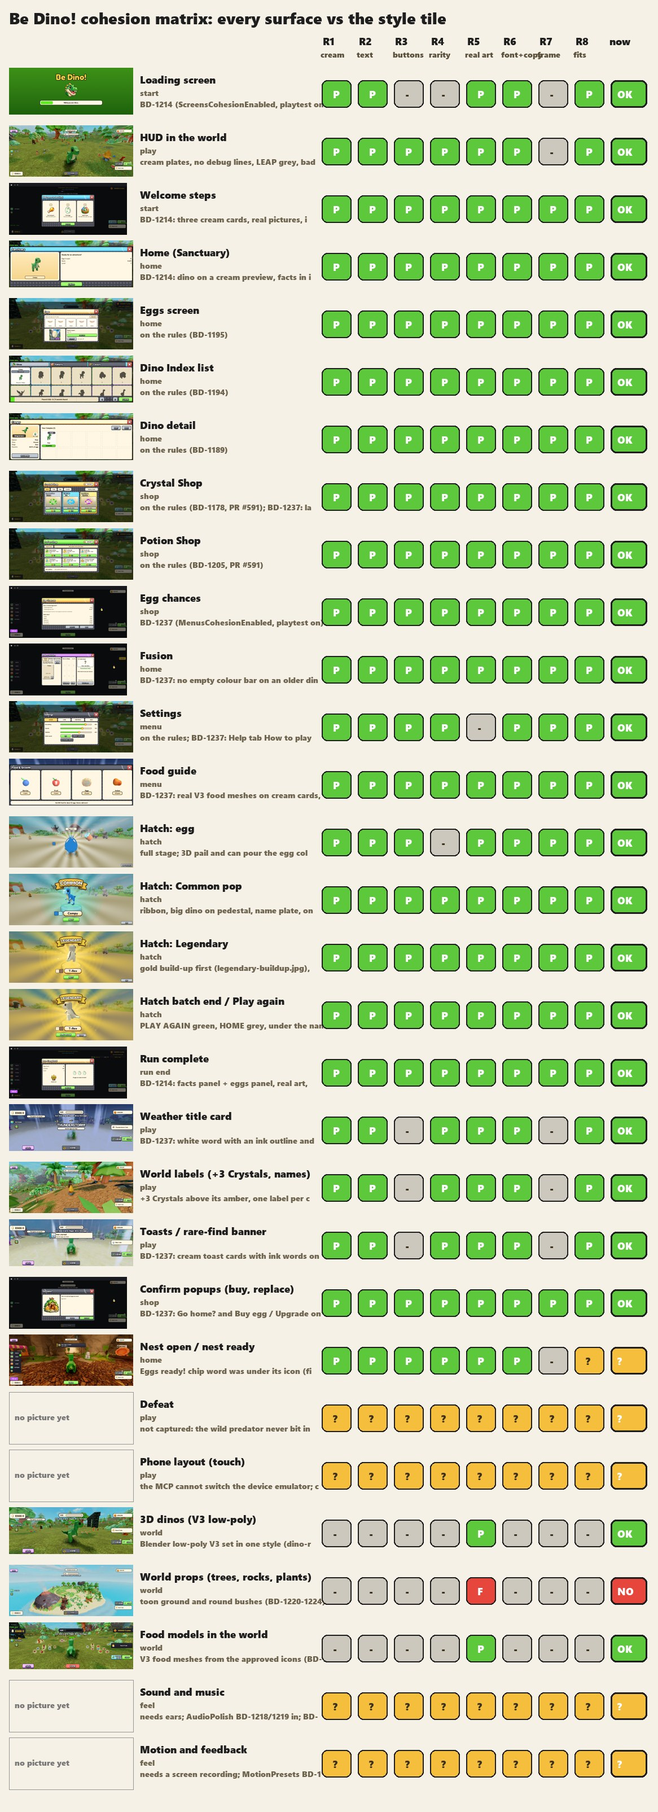
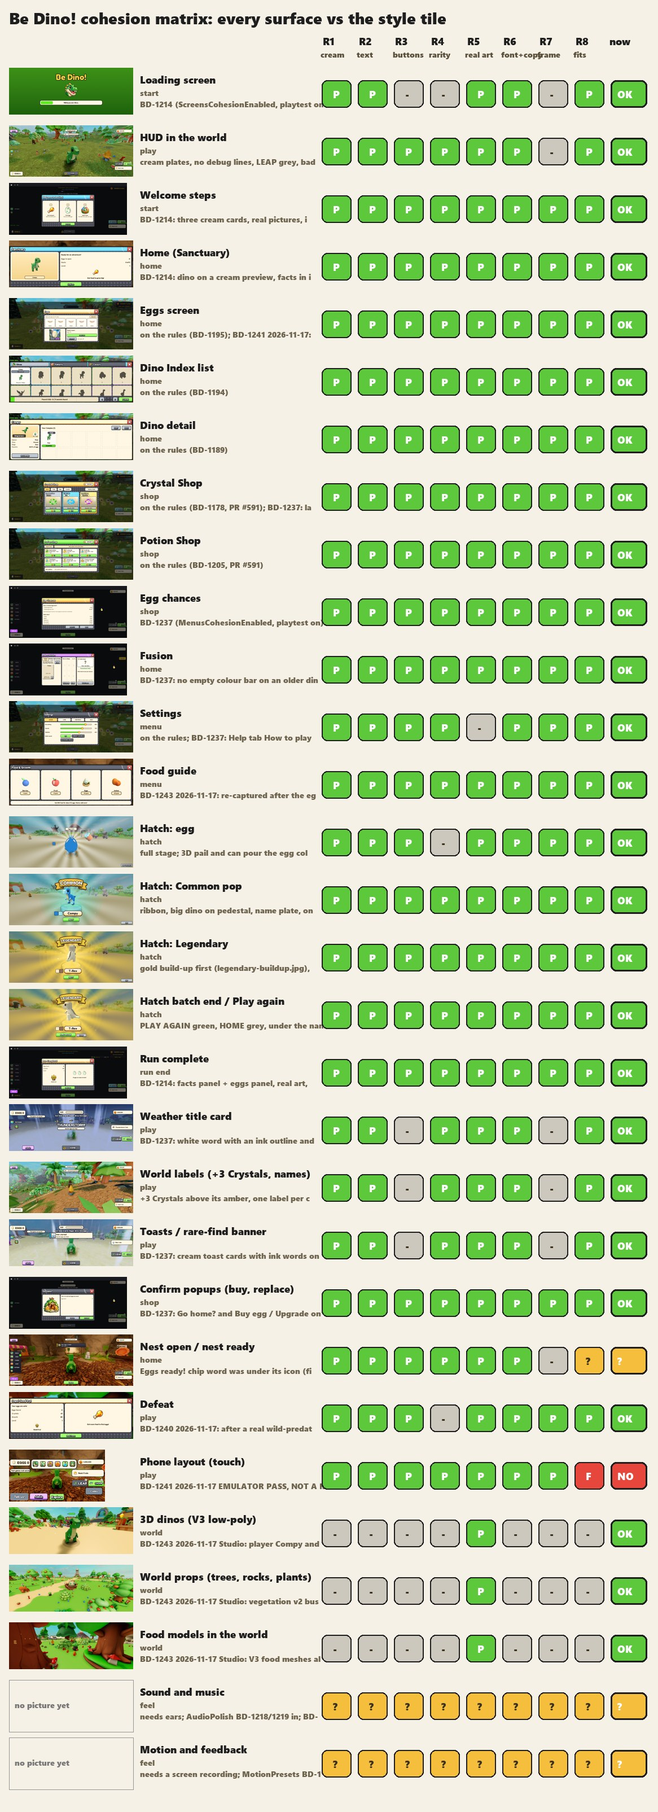
BD-1240 + BD-1243 + BD-1241 final style checks, board tidy (BD-1216, BD-1208)
- BD-1240: defeat screen captured after a real wild-predator knock-out in Studio, R1-R8 pass after an R8 fix.
- BD-1243: Food guide (egg turn), V3 dinos, world props, food models re-captured and judged (pass).
- BD-1241: emulator pass (resized Studio viewport 828x374 / 634x344, desktop input; not a real phone).
  Fixes behind MenusCohesionEnabled / HudCohesionEnabled: ModalCompact.usableWidth keeps compact screens
  clear of the frame (Run complete/defeat, Home, menus, Settings, Index, Eggs); Codes button keeps clear of
  the HUD pieces (CodesButtonSpot + verify_codes_button_spot); home rail and walk-up bubble cream.
  New rows BD-1249, BD-1250, BD-1251 for what is left.
- Board: BD-1216 and BD-1208 to Review / test; BD-1240 Review / test; BD-1241, BD-1243 In progress.
- Matrix: 26 pass, 1 fail (phone R8), 3 not checked. Pictures in docs/evidence/2026-11-17-final-checks.

diff --git a/tools/verify_codes_button_spot.py b/tools/verify_codes_button_spot.py
@@ -1,0 +1,78 @@
+"""BD-1241 (docs/240 R8, emulator pass 2026-11-17): the HUD "Codes" button keeps clear of the HUD pieces.
+
+Runs the REAL src/shared/CodesButtonSpot.luau with the pinned Luau runner:
+  * the measured Studio case (1274 x 481): the old fixed spot (right edge, y 162) sat on the timers column (weather chip); the rule moves
+    it left of the column, clear of every published piece, inside the canvas;
+  * a tall desktop canvas (1914 x 841) keeps the old spot (nothing there);
+  * phone canvases (iPhone 844 x 390, small Android 640 x 360) with a timers column under the crystals plate get a clear spot;
+  * when no spot is clear the old spot is returned and reported as not clear (never off screen).
+And a source scan: GiftsPanel uses the rule only inside the Config.MenusCohesionEnabled block (flag off = the old fixed spot).
+
+    python tools/verify_codes_button_spot.py --runner <luau.exe>
+"""
+from pathlib import Path
+import argparse
+import subprocess
+import tempfile
+
+ROOT = Path(__file__).resolve().parents[1]
+
+BODY = r'''
+local function overlaps(a, b) return a.x < b.x + b.w and b.x < a.x + a.w and a.y < b.y + b.h and b.y < a.y + a.h end
+local function check(name, width, height, blockers, expectClear)
+    local default = {x = width - 128, y = 162, w = 110, h = 44}
+    local r, ok = Spot.place(default, blockers, width, height)
+    assert(ok == expectClear, name .. ": clear=" .. tostring(ok))
+    if ok then
+        for _, b in blockers do assert(not overlaps(r, b), name .. ": still overlaps a HUD piece") end
+        assert(r.x >= 0 and r.y >= 0 and r.x + r.w <= width and r.y + r.h <= height, name .. ": off the canvas")
+        assert(r.w >= 44 and r.h >= 44, name .. ": tap target under 44 px")
+    end
+    return r
+end
+-- Rects measured in the playtest build at 1274 x 481 (BeDinoUI attributes, 2026-11-17)
+local studio = {
+    {x = 1049.97, y = 157.82, w = 216.03, h = 166.18}, -- TimersRect (LEAP, weather chip, potions)
+    {x = 1069.61, y = 8, w = 196.39, h = 62.92},       -- WalletBlockRect
+    {x = 8, y = 8, w = 158.63, h = 48.34},             -- HudRect
+    {x = 8, y = 102.34, w = 201, h = 144},             -- RailRect
+    {x = 517, y = 279, w = 240, h = 48},               -- ChipRect
+    {x = 544.85, y = 369.68, w = 184.31, h = 45.32},   -- ActionRect
+    {x = 8, y = 367, w = 120, h = 48},                 -- FeedbackRect
+    {x = 136, y = 367, w = 120, h = 48},               -- AdminRect
+}
+local moved = check("studio 1274x481", 1274, 423, studio, true)
+assert(moved.y == 162 and moved.x < 1049.97, "studio: expected the spot left of the timers column")
+local desk = check("desktop 1914x841", 1914, 783, {{x = 1600, y = 600, w = 290, h = 160}, {x = 1636, y = 8, w = 260, h = 62}}, true)
+assert(desk.x == 1914 - 128 and desk.y == 162, "desktop: the old spot must stay")
+check("iPhone 844x390", 844, 390, {{x = 680, y = 120, w = 150, h = 200}, {x = 650, y = 8, w = 186, h = 56}, {x = 8, y = 8, w = 150, h = 46}}, true)
+check("Android 640x360", 640, 360, {{x = 500, y = 110, w = 132, h = 190}, {x = 470, y = 8, w = 162, h = 52}, {x = 8, y = 8, w = 140, h = 44}}, true)
+local full = check("no room", 300, 220, {{x = 0, y = 0, w = 300, h = 220}}, false)
+assert(full.x == 300 - 128 and full.y == 162, "no room: the old spot is returned")
+assert(Spot.fromAttribute({}) == nil and Spot.fromAttribute(nil) == nil)
+print("CodesButtonSpot passed")
+'''
+
+
+def scan():
+    src = (ROOT / "src/client/GiftsPanel.client.luau").read_text(encoding="utf-8")
+    assert src.count("CodesButtonSpot") == 1, "GiftsPanel must require CodesButtonSpot exactly once"
+    block = src[src.index("Config.MenusCohesionEnabled == true then\n        local Spot"):]
+    assert block.index("CodesButtonSpot") < block.index("\n    end\nend)"), "the rule must sit inside the MenusCohesionEnabled block"
+    assert 'UDim2.new(1, -128, 0, 162)' in src, "flag off keeps the old fixed spot"
+
+
+if __name__ == "__main__":
+    parser = argparse.ArgumentParser()
+    parser.add_argument("--runner", required=True)
+    args = parser.parse_args()
+    scan()
+    module = (ROOT / "src/shared/CodesButtonSpot.luau").read_text(encoding="utf-8")
+    script = "local Spot = (function()\n" + module + "\nend)()\n" + BODY
+    with tempfile.TemporaryDirectory() as d:
+        path = Path(d) / "codes_button_spot.luau"
+        path.write_text(script, encoding="utf-8")
+        result = subprocess.run([args.runner, str(path)], capture_output=True, text=True)
+        print(result.stdout, end="")
+        print(result.stderr, end="")
+        raise SystemExit(result.returncode)

diff --git a/tools/verify_toybox_ui.py b/tools/verify_toybox_ui.py
@@ -52,7 +52,7 @@ ART = 'resources/ui/v2/toybox/final'
 # BD-1178 (docs/231): the Crystal Shop in the Toybox look reads the kit through its own verifier, tools/verify_toybox_shop.py
 POLISH_FILES = tuple('src/client/' + n + '.luau' for n in ('PotionToyboxPage', 'SettingsMenu', 'HudToybox', 'HudTimers', 'VolumeSliders', 'SmallScreens')) + ('src/shared/TimerWords.luau', 'src/client/HudCohesion.client.luau', 'src/client/PointAtCue.client.luau')  # BD-1226: the point-at chips read the kit cream / ink (own flag); BD-1205 (docs/236): Potion Shop, Settings, HUD buttons; BD-1213: the HUD cohesion script reads the ToyboxKit numbers (its own flag)
 SCREENS_COHESION = ('src/client/ScreensCohesion.luau', 'src/shared/ScreensCohesionLayout.luau', 'src/loading/Loading.client.luau')  # BD-1214 (docs/240 step 3): Run complete, Home, Welcome, Loading on the kit numbers
-MENUS_COHESION = ('src/client/MenusCohesion.luau', 'src/shared/MenusCohesionRules.luau', 'src/client/ShopTiles.luau')  # BD-1237 (docs/240 step 4): Egg chances, Food guide, weather card, toasts on the kit numbers
+MENUS_COHESION = ('src/client/MenusCohesion.luau', 'src/shared/MenusCohesionRules.luau', 'src/client/ShopTiles.luau', 'src/client/HubPromptBubble.luau')  # BD-1237 (docs/240 step 4): Egg chances, Food guide, weather card, toasts on the kit numbers; BD-1241: the walk-up bubble reads the kit cream / ink (MenusCohesionEnabled only)
 CRYSTAL_SHOP = ('src/shared/ToyboxShop.luau', 'src/client/ShopToyboxCard.luau', 'src/client/ShopToyboxPage.luau', 'src/client/ShopCards.luau', 'src/client/ShopScreens.luau')
 
 # The hook lines. Removing them gives "today's files"; check 2 compares the flag-off build against that.

diff --git a/docs/evidence/2026-11-15-cohesion/cohesion-matrix.md b/docs/evidence/2026-11-15-cohesion/cohesion-matrix.md
@@ -10,18 +10,18 @@
 | Surface | Group | R1 | R2 | R3 | R4 | R5 | R6 | R7 | R8 | Now | Note |
 | --- | --- | --- | --- | --- | --- | --- | --- | --- | --- | --- | --- |
 | Loading screen | start | P | P | - | - | P | P | - | P | P | BD-1214 (ScreensCohesionEnabled, playtest on): warm green, real dino art, cream bar, one font |
-| HUD in the world | play | P | P | P | P | P | P | - | P | P | cream plates, no debug lines, LEAP grey, badges on the edge (BD-1213, HudCohesionEnabled, playtest); BD-1237: Codes and Tell us! grey (docs/evidence/2026-11-16-menus-style/after-hud-codes-tellus-grey.jpg) |
+| HUD in the world | play | P | P | P | P | P | P | - | P | P | cream plates, no debug lines, LEAP grey, badges on the edge (BD-1213, HudCohesionEnabled, playtest); BD-1237: Codes and Tell us! grey (docs/evidence/2026-11-16-menus-style/after-hud-codes-tellus-grey.jpg); BD-1241 2026-11-17: home rail now a cream plate with ink words, Codes moved clear of the weather chip on short canvases (home-hud-after-1274x481.jpg) |
 | Welcome steps | start | P | P | P | P | P | P | P | P | P | BD-1214: three cream cards, real pictures, ink text, one green button |
-| Home (Sanctuary) | home | P | P | P | P | P | P | P | P | P | BD-1214: dino on a cream preview, facts in ink, Explore green, OPEN EGGS grey |
-| Eggs screen | home | P | P | P | P | P | P | P | P | P | on the rules (BD-1195) |
+| Home (Sanctuary) | home | P | P | P | P | P | P | P | P | P | BD-1214: dino on a cream preview, facts in ink, Explore green, OPEN EGGS grey; 2026-11-17: right panel clear of the frame on a compact canvas |
+| Eggs screen | home | P | P | P | P | P | P | P | P | P | on the rules (BD-1195); BD-1241 2026-11-17: panels clear of the frame on a compact canvas (eggs-screen-after-1274x481.jpg); empty-nest pictures cut at the top there (BD-1251) |
 | Dino Index list | home | P | P | P | P | P | P | P | P | P | on the rules (BD-1194) |
 | Dino detail | home | P | P | P | P | P | P | P | P | P | on the rules (BD-1189) |
 | Crystal Shop | shop | P | P | P | P | P | P | P | P | P | on the rules (BD-1178, PR #591); BD-1237: landing tiles cream with ink words and grey OPEN, the Eggs card ink words and a grey Chances (docs/evidence/2026-11-16-menus-style/after-shop-tiles.jpg, after-shop-egg-card.jpg) |
 | Potion Shop | shop | P | P | P | P | P | P | P | P | P | on the rules (BD-1205, PR #591) |
 | Egg chances | shop | P | P | P | P | P | P | P | P | P | BD-1237 (MenusCohesionEnabled, playtest on): cream panel, kid chances (1 in 4), exact numbers one tap away trimmed (36.4%), grey buttons; Buy egg confirm on cream panels with one green CONFIRM (code path; the egg is Coming soon in this build) |
 | Fusion | home | P | P | P | P | P | P | P | P | P | BD-1237: no empty colour bar on an older dino (the card line already says Older dino) |
-| Settings | menu | P | P | P | P | - | P | P | P | P | on the rules; BD-1237: Help tab How to play grey beside the one green FOOD GUIDE (docs/evidence/2026-11-16-menus-style/after-settings-help.jpg) |
-| Food guide | menu | P | P | P | P | P | P | P | P | P | BD-1237: real V3 food meshes on cream cards, ink names and grow chips; the egg mesh now gets its RotX turn (re-capture BD-1243) |
+| Settings | menu | P | P | P | P | - | P | P | P | P | on the rules; BD-1237: Help tab How to play grey beside the one green FOOD GUIDE (docs/evidence/2026-11-16-menus-style/after-settings-help.jpg); BD-1241 2026-11-17: tabs, sliders and numbers clear of the scroll bar on a compact canvas (settings-sound-after-1274x481.jpg) |
+| Food guide | menu | P | P | P | P | P | P | P | P | P | BD-1243 2026-11-17: re-captured after the egg turn fix: the egg stands upright in its nest; four cream cards with real V3 food meshes, ink names, grow chips, kid tip line |
 | Hatch: egg | hatch | P | P | P | - | P | P | P | P | P | full stage; 3D pail and can pour the egg colours; cream chips |
 | Hatch: Common pop | hatch | P | P | P | P | P | P | P | P | P | ribbon, big dino on pedestal, name plate, one green NEXT |
 | Hatch: Legendary | hatch | P | P | P | P | P | P | P | P | P | gold build-up first (legendary-buildup.jpg), then gold ribbon |
@@ -32,10 +32,10 @@
 | Toasts / rare-find banner | play | P | P | - | P | P | P | - | P | P | BD-1237: cream toast cards with ink words on the 20/14 scale, the kind colour only on the edge bar; the rare-find banner is white outlined words on the world (R2); the hatch purple banner is the hatch session's |
 | Confirm popups (buy, replace) | shop | P | P | P | P | P | P | P | P | P | BD-1237: Go home? and Buy egg / Upgrade on cream panels, one green button, CANCEL grey; Buy / Replace potion and Buy aura were already on cream (BD-1178, BD-1205) |
 | Nest open / nest ready | home | P | P | P | P | P | P | - | ? | ? | Eggs ready! chip word was under its icon (fixed in BD-1237, not re-captured); the toast in that picture is now cream; nests with eggs not captured: BD-1243 |
-| Defeat | play | ? | ? | ? | ? | ? | ? | ? | ? | ? | not captured: the wild predator never bit in Studio; BD-1240 |
-| Phone layout (touch) | play | ? | ? | ? | ? | ? | ? | ? | ? | ? | the MCP cannot switch the device emulator; compact 1274x481 and offline 667x375 checked only; BD-1241 |
-| 3D dinos (V3 low-poly) | world | - | - | - | - | P | - | - | - | P | Blender low-poly V3 set in one style (dino-rig session); Parasaurolophus odd BD-1188; fresh Studio check BD-1243 |
-| World props (trees, rocks, plants) | world | - | - | - | - | F | - | - | - | F | toon ground and round bushes (BD-1220-1224) fit; rocks and plants still the placeholder kit: BD-206, vegetation v2 queued BD-1239 (PR #615) |
-| Food models in the world | world | - | - | - | - | P | - | - | - | P | V3 food meshes from the approved icons (BD-1208), the same meshes the Food guide shows now; hosts BD-1238 (PR #614) |
+| Defeat | play | P | P | P | - | P | P | P | P | P | BD-1240 2026-11-17: after a real wild-predator knock-out in Studio (two NPC bites, test-only HP in a throwaway build). Oops! Good try!, Your eggs are safe!, one green Back home; R8 fixed: the right panel ran 4 px into the frame on a compact canvas (before: defeat-before-1274x481.jpg) |
+| Phone layout (touch) | play | P | P | P | P | P | P | P | F | F | BD-1241 2026-11-17 EMULATOR PASS, NOT A REAL PHONE: Studio viewport resized to 828x374 and 634x344, desktop input. Fixed: panels clear of the frame, Codes clear of the weather chip, home rail and walk-up bubble cream. R8 still fails: toasts over the weather chip / under the bubble and over OPEN EGGS (BD-1249), taps under 44 px (BD-1250), nest pictures cut (BD-1251). Real phone: owner (BD-1222) |
+| 3D dinos (V3 low-poly) | world | - | - | - | - | P | - | - | - | P | BD-1243 2026-11-17 Studio: player Compy and the baby herd (dino-v3-baby-stegosaurus.jpg) are the V3 low-poly set with eyes and the BD-1217 clips; hatch shows the V3 Raptor (hatch-common-1274x481.jpg). Small: at a close side angle the far eye reads as a flat black patch. Parasaurolophus still needs an owner Model id (BD-1216) |
+| World props (trees, rocks, plants) | world | - | - | - | - | P | - | - | - | P | BD-1243 2026-11-17 Studio: vegetation v2 bushes and trees, mossy boulders and mushrooms, one set piece per spoke (nest, campfire, signpost, fossil dig, log bridge), plaza shops v2 with dino shopkeepers (world-plaza-shops-v2.jpg, world-rocks-mushrooms-food-closeup.jpg); the placeholder kit is gone |
+| Food models in the world | world | - | - | - | - | P | - | - | - | P | BD-1243 2026-11-17 Studio: V3 food meshes along the paths (berries, apples, amber, eggs in nests), the same meshes the Food guide shows (world-nest-set-piece-food-vegetation.jpg) |
 | Sound and music | feel | ? | ? | ? | ? | ? | ? | ? | ? | ? | needs ears; AudioPolish BD-1218/1219 in; BD-1242 |
 | Motion and feedback | feel | ? | ? | ? | ? | ? | ? | ? | ? | ? | needs a screen recording; MotionPresets BD-1182; BD-1242 |

diff --git a/docs/kanban/rows/BD-1241.md b/docs/kanban/rows/BD-1241.md
@@ -1,1 +1,1 @@
-| BD-1241 | Backlog | P2 | **Cohesion check: phone layout with Studio's device emulator or a real phone (owner)** docs/240 step 5, matrix row Phone layout. The Studio MCP cannot switch Studio's device emulator (no tool for it), so no phone-size touch picture exists. Checked instead: the compact window 1274x481 (Food guide, weather card, toasts) and the offline layout sweep at 667x375 in tools/verify_menus_cohesion.py / verify_screens_cohesion.py. Done when: pictures at an iPhone-size emulator preset (or a real phone) of HUD, Home, Eggs, Egg chances, Food guide, Go home?, Run complete, judged R1-R8. | BD-1237 |
+| BD-1241 | In progress | P2 | **Cohesion check: phone layout with Studio's device emulator or a real phone (owner)** docs/240 step 5, matrix row Phone layout. The Studio MCP cannot switch Studio's device emulator (no tool for it), so no phone-size touch picture exists. Checked instead: the compact window 1274x481 (Food guide, weather card, toasts) and the offline layout sweep at 667x375 in tools/verify_menus_cohesion.py / verify_screens_cohesion.py. Done when: pictures at an iPhone-size emulator preset (or a real phone) of HUD, Home, Eggs, Egg chances, Food guide, Go home?, Run complete, judged R1-R8. 2026-11-17 EMULATOR PASS, NOT A REAL PHONE: Studio's device emulator has no script hook, so my test window was resized to phone-sized viewports (828x374 iPhone-like, 634x344 small Android) with desktop input (no touch controls drawn). Checked HUD run/home, Sanctuary, Run complete, Potion Shop, Index, walk-up bubble; hatch at 1274x481. Fixed behind the cohesion flags: panels clear of the frame (Run complete/defeat, Home, menus, Settings, Index, Eggs), Codes button clear of the weather chip, home rail and walk-up bubble cream. Open: BD-1249, BD-1250, BD-1251. Real-phone check stays with the owner (BD-1222). | BD-1237 |

diff --git a/docs/kanban/rows/BD-1240.md b/docs/kanban/rows/BD-1240.md
@@ -1,1 +1,1 @@
-| BD-1240 | Backlog | P2 | **Cohesion check: defeat screen picture (a real predator knock-out in Studio)** docs/240 step 5, cohesion matrix row Defeat. 2026-11-16: not captured: in the playtest place WildPredator1 never bit a size-1 Compy held beside it for 25 s, and the defeat path (CombatService onDefeat -> RunLifecycle.tryEnd Defeated) cannot be called from a Studio MCP context (separate module instances). Code path is on the rules already (BD-1214 moves 'Your eggs are safe!' into the cream facts panel). Done when: a Studio picture of Run complete after a real defeat, judged on R1-R8, row in docs/polish/cohesion.json updated. | BD-1237 |
+| BD-1240 | Review / test | P2 | **Cohesion check: defeat screen picture (a real predator knock-out in Studio)** docs/240 step 5, cohesion matrix row Defeat. 2026-11-16: not captured: in the playtest place WildPredator1 never bit a size-1 Compy held beside it for 25 s, and the defeat path (CombatService onDefeat -> RunLifecycle.tryEnd Defeated) cannot be called from a Studio MCP context (separate module instances). Code path is on the rules already (BD-1214 moves 'Your eggs are safe!' into the cream facts panel). Done when: a Studio picture of Run complete after a real defeat, judged on R1-R8, row in docs/polish/cohesion.json updated. 2026-11-17: captured after a real wild-predator knock-out in my own playtest build (two NPC bites, CombatService onDefeat -> RunLifecycle Defeated; test-only in that throwaway build: BaseHp 10 and GrowthScore 80 so the size-ratio rule lets the predator bite and two bites end it; nothing of that is committed). R1-R8 pass after an R8 fix (right panel ran 4 px into the frame on a compact canvas: ModalCompact.usableWidth, cohesion flags only). docs/evidence/2026-11-17-final-checks/defeat-after-1274x481.jpg | BD-1237 |

diff --git a/docs/kanban/rows/BD-1208.md b/docs/kanban/rows/BD-1208.md
@@ -1,1 +1,1 @@
-| BD-1208 | In progress | P0 | **World redesign (owner 2026-11-15: 'the map looks bad, the food looks bad'): round island, spawn plaza + spoke paths + ring road, readable zones with one landmark each, clumped planting, food as the approved icons come to life (berries on bushes, fruit on trees, eggs in nests, amber in rocks), no halo discs; docs/241, built on the WorldLayer grid (BD-1047); proposal pictures first** 2026-11-15 step 3 food: 8 V3 food pickups generated with Roblox generate_mesh from the approved food icons (owner picked this route after the Blender-script food read 'too low poly' and the amber/nests 'missing character'); wired behind Config.FoodV3Enabled (on in playtest). Studio check in progress; NOT verified on phone; map/zones/planting not started. | None |
+| BD-1208 | Review / test | P0 | **World redesign (owner 2026-11-15: 'the map looks bad, the food looks bad'): round island, spawn plaza + spoke paths + ring road, readable zones with one landmark each, clumped planting, food as the approved icons come to life (berries on bushes, fruit on trees, eggs in nests, amber in rocks), no halo discs; docs/241, built on the WorldLayer grid (BD-1047); proposal pictures first** 2026-11-15 step 3 food: 8 V3 food pickups generated with Roblox generate_mesh from the approved food icons (owner picked this route after the Blender-script food read 'too low poly' and the amber/nests 'missing character'); wired behind Config.FoodV3Enabled (on in playtest). Studio check in progress; NOT verified on phone; map/zones/planting not started. 2026-11-17: every part merged (#599, #606, #607, #608, #614, #619, #620, #623, #625, #626), all on in the playtest profile; left for the owner: play the island on a phone and judge it. | None |

diff --git a/docs/kanban/rows/BD-1243.md b/docs/kanban/rows/BD-1243.md
@@ -1,1 +1,1 @@
-| BD-1243 | Backlog | P2 | **Cohesion check: 3D pictures (Food guide after the egg turn fix, 3D dinos, props, food models, nests ready)** docs/240 step 5. 2026-11-16: the 1914x841 test window drew no 3D at all (a plain red Part in a ViewportFrame did not show either), the 1274x481 window drew 3D but its Play button hung. Food guide 3D was captured once before the egg mesh got its RotX turn (egg seen from below); needs a re-capture. World rows (3D dinos, props, food models) judged from the sibling evidence (2026-11-16-world-look, -v3-dinos, 2026-11-15-food-v3) only. Nests open / ready not captured with eggs in nests. Done when: Studio pictures of each, judged R1-R8. | BD-1237 |
+| BD-1243 | In progress | P2 | **Cohesion check: 3D pictures (Food guide after the egg turn fix, 3D dinos, props, food models, nests ready)** docs/240 step 5. 2026-11-16: the 1914x841 test window drew no 3D at all (a plain red Part in a ViewportFrame did not show either), the 1274x481 window drew 3D but its Play button hung. Food guide 3D was captured once before the egg mesh got its RotX turn (egg seen from below); needs a re-capture. World rows (3D dinos, props, food models) judged from the sibling evidence (2026-11-16-world-look, -v3-dinos, 2026-11-15-food-v3) only. Nests open / ready not captured with eggs in nests. Done when: Studio pictures of each, judged R1-R8. 2026-11-17: Studio pictures judged: Food guide after the egg turn (pass), V3 dinos with clips (player Compy, baby herd; pass), world props (vegetation v2, set pieces, plaza shops v2; R5 pass now), food models in the world (pass); docs/evidence/2026-11-17-final-checks. Left: nests with eggs in them (not captured). | BD-1237 |

diff --git a/docs/240-cohesion-style-bible.md b/docs/240-cohesion-style-bible.md
@@ -44,6 +44,8 @@ Today: **6 surfaces pass, 13 fail, 11 not checked** (30 surfaces: start, play, h
 
 Progress 2026-11-16: steps 1-3 merged (hatch stage, HUD BD-1213, screens BD-1214); step 4 and the UI fixes of step 5 in BD-1237 (`MenusCohesionEnabled`, pictures `docs/evidence/2026-11-16-menus-style/`, matrix there: 20 pass, 4 fail, 6 not checked). Every row that is not a pass has a board row: hatch rows BD-1211, props BD-206 / BD-1239, defeat BD-1240, phone BD-1241, sound and motion BD-1242, 3D re-captures BD-1243.
 
+Progress 2026-11-17 (final checks, `docs/evidence/2026-11-17-final-checks/`): defeat captured after a real wild-predator knock-out (BD-1240, pass after an R8 fix); Food guide, 3D dinos, world props and food models re-captured in Studio (BD-1243, pass); phone layout first pass in a resized Studio viewport (828x374, 634x344, desktop input: an emulator pass, not a real phone; BD-1241): panels now keep clear of the frame on compact canvases, Codes keeps clear of the weather chip, the home rail and the walk-up bubble are cream (all behind the cohesion flags). Matrix: 26 pass, 1 fail (phone R8: BD-1249 toasts, BD-1250 taps under 44 px, BD-1251 nest pictures), 3 not checked (nests with eggs, sound, motion).
+
 ## 5. In the loop (docs/234)
 
 Every polish run re-renders the matrix; a change that turns a surface red does not merge. The target is every row green. The per-screen score stays, but the matrix is the whole-game check.

diff --git a/docs/kanban/rows/BD-1216.md b/docs/kanban/rows/BD-1216.md
@@ -1,1 +1,1 @@
-| BD-1216 | Backlog | P1 | **Benchmark: real V3 dinos in the game (player dino + every collection dino) instead of the faceted stand-ins** The hero is a flat-shaded low-poly figure with blank eyes (docs/evidence/2026-11-16-benchmark/07-player-dino-lowpoly.jpg); hits use one cute rounded style with big eyes. Bring the owner's V3 lineup (Place1 v3 folders, docs/77) into DinosaurVisual behind a flag; Studio + phone pictures. (docs/242 benchmark, gap 1) | None |
+| BD-1216 | Review / test | P1 | **Benchmark: real V3 dinos in the game (player dino + every collection dino) instead of the faceted stand-ins** The hero is a flat-shaded low-poly figure with blank eyes (docs/evidence/2026-11-16-benchmark/07-player-dino-lowpoly.jpg); hits use one cute rounded style with big eyes. Bring the owner's V3 lineup (Place1 v3 folders, docs/77) into DinosaurVisual behind a flag; Studio + phone pictures. (docs/242 benchmark, gap 1) 2026-11-17: PR #603 found the game already uses the V3 dinos (DinosaurVisual on the V3 lineup, BD-1217 clips in); left: Parasaurolophus still needs an owner Model id. Owner phone check open. | None |

diff --git a/docs/kanban/rows/BD-1249.md b/docs/kanban/rows/BD-1249.md
@@ -1,0 +1,1 @@
+| BD-1249 | Backlog | P2 | **Phone layout: toasts keep clear of the prompt bubble, the weather chip and a window's main button** Found in the BD-1241 emulator pass 2026-11-17 (Studio viewport resized, desktop input, not a real phone; docs/evidence/2026-11-17-final-checks). At 634x344 the 'Follow the glow' toast lands on the weather chip and under the walk-up bubble (phone-634x344-toast-under-bubble.jpg); at 1274x481 the '+7 Crystals' toast covers the green OPEN EGGS button of Run complete for a few seconds (toast-over-open-eggs-1274x481.jpg). Studio-only: the 'Test game: not saved' chip sits on the SIZE word at 634x344. docs/240 R8. Done when: toasts use the published HUD rects plus the open window's button row, Studio pictures at both sizes show no overlap. | BD-1241 |

diff --git a/docs/kanban/rows/BD-1251.md b/docs/kanban/rows/BD-1251.md
@@ -1,0 +1,1 @@
+| BD-1251 | Backlog | P3 | **Eggs screen on short screens: empty-nest pictures cut at the top; the Eggs scroll bar shows through the hatch stage** BD-1241 emulator pass 2026-11-17: at 1274x481 the five 'Empty' nest slots show only the lower half of the nest picture (eggs-screen-after-1274x481.jpg), and the Eggs window's gold scroll bar stays visible on the right edge of the full hatch stage (hatch-common-1274x481.jpg). docs/240 R7/R8. Done when: a Studio picture at 1274x481 shows whole nests and a hatch stage without the bar. | BD-1241 |

diff --git a/docs/kanban/rows/BD-1250.md b/docs/kanban/rows/BD-1250.md
@@ -1,0 +1,1 @@
+| BD-1250 | Backlog | P2 | **Phone layout: three tap targets under 44 px on short screens (hatch NEXT, Index page arrows, crystal plate)** Measured in the BD-1241 emulator pass 2026-11-17 (docs/evidence/2026-11-17-final-checks): hatch NEXT 133x35 at 1274x481 (hatch-common-1274x481.jpg), Index PagePrev/PageNext 35x44 at 634x344, the crystal plate shop shortcut 169x31 at 634x344 and 828x374. docs/72 floor: targets at least 44 px. Done when: each is at least 44x44 on screen at 634x344 and 1274x481, measured in Studio. | BD-1241 |
